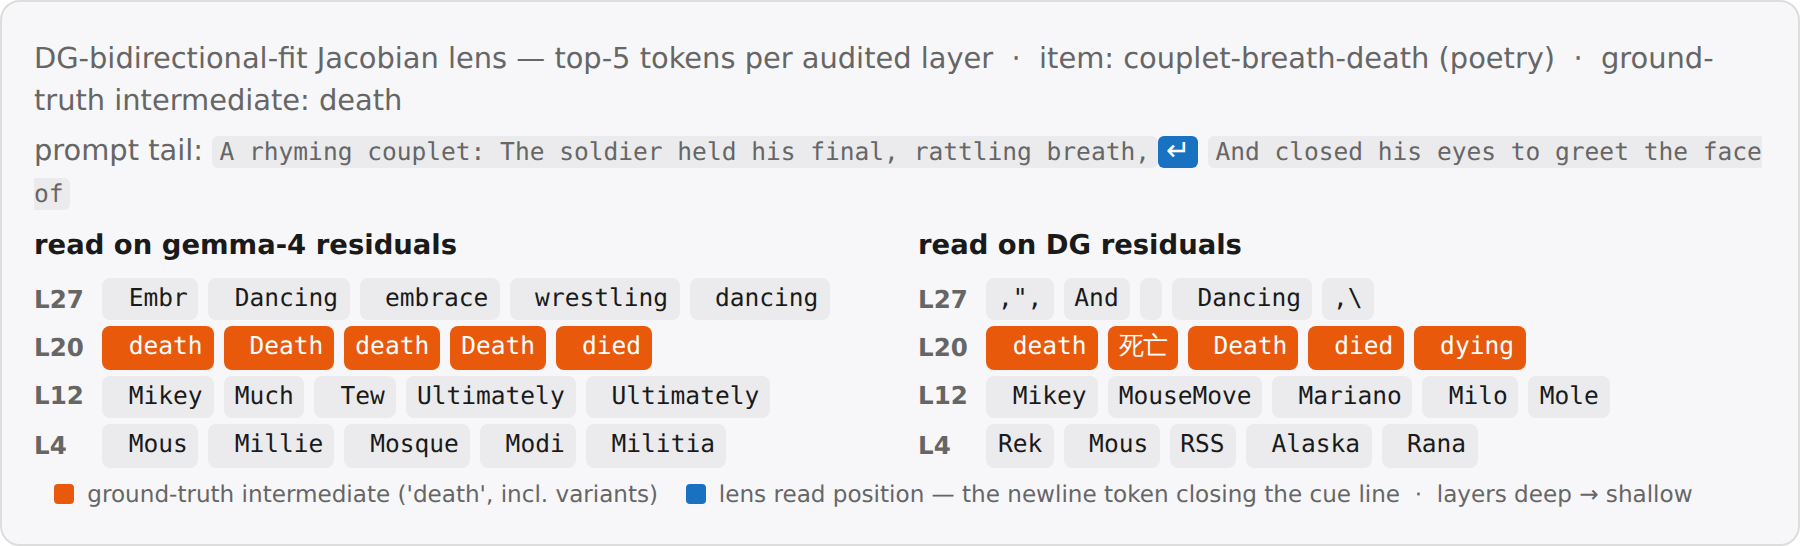
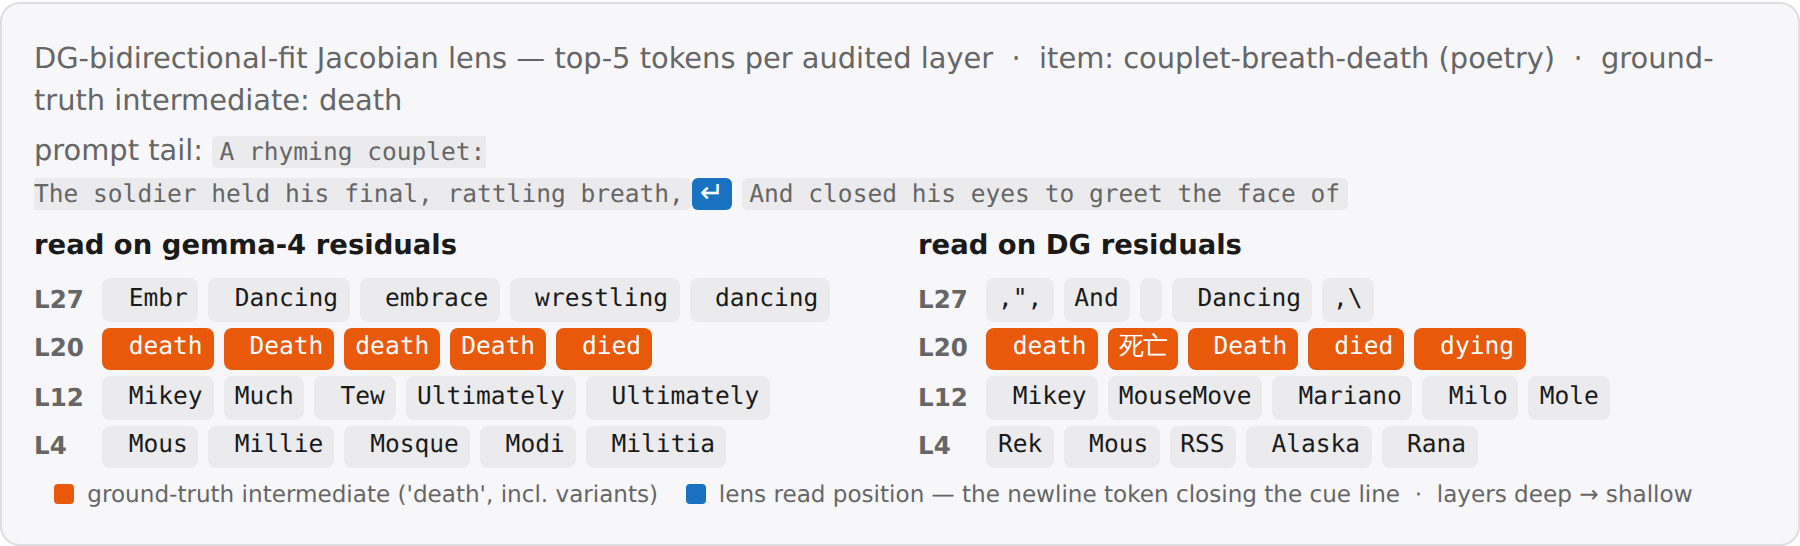
Honesty steering example, angle-bracket mean notation, bold sup-labels, jlens card linebreaks, x'-k axis on transfer map
Claude-Session: https://claude.ai/code/session_01U8CiyQ7ySpBDkYEq4FzNBU

diff --git a/post.html b/post.html
@@ -101,7 +101,7 @@ $$</p>
 <p>This behavior is plausible considering the computation in question: a shift is easily implemented by a linear rotation in representation space. Therefore, superpositions of letters will be transported to superpositions of responses. Overall, this leaves an interpretable picture.</p>
 <h2>Conclusion</h2>
 <p>In this post, we have studied whether DiffusionGemma has latent reasoning in terms of its vector-valued state $\mathbf{S}^t$. We found that top-k truncation of $\mathbf{S}^t$ largely preserves accuracy suggests that it is not _significantly_ being used in typical reasoning-focussed task. However, for some tasks, we found that the model can make _some_ use of $\mathbf{S}^t$, in terms of carrying out (parallel) computation on it.</p>
-<p>Overall, this supports <a href="https://arxiv.org/abs/2606.20560">Engels et al.</a>'s conclusion of a highly monitorable DiffusionGemma. Specifically, we did not find any strong evidence of latent _reasoning_, as in using $\mathbf{S}^t$ in a way that carries out meaningful computation and is opaque. Going forward, these largely negative results are an update that "true" latent reasoning is somewhat hard to learn. However, there already exist models like CODI that pass a vector-valued state that is not clearly a superposition of tokens, though they so far don't show superior performance. We believe that finding methods to better interpret such models is an important area of reasearch.</p>
+<p>Overall, this supports <a href="https://arxiv.org/abs/2606.20560">Engels et al.</a>'s conclusion of a highly monitorable DiffusionGemma. In particular, we did not find any strong evidence of latent _reasoning_, as in using $\mathbf{S}^t$ in a way that carries out meaningful computation and is opaque. Going forward, these largely negative results are an update that "true" latent reasoning is somewhat hard to learn. However, there already exist models like CODI that pass a vector-valued state that is not clearly a superposition of tokens, though they so far don't show superior performance. We believe that finding methods to better interpret such models is an important area of reasearch.</p>
 <h2>Appendix</h2>
 <p>The findings by <a href="https://arxiv.org/abs/2606.20560">Engels et al.</a> and in this post have focussed on DiffusionGemma's behavior. We here study whether the model's representation supports the behavioral finding of high monitorability.</p>
 <h3>Representation similarity (cosine &amp; CKA)</h3>
@@ -114,15 +114,15 @@ $$</p>
 <figure><img src="figs/figA2_probe_retention.png" alt="Probe retention"></figure>
 <p>_<strong>Probes largely transfer from Gemma to DiffusionGemma.</strong> Top: mean held-out AUC over the 56 concepts, probe source (trained on) × target (applied to); DG is split by attention mode (last-position read everywhere), grey = causal ↔ bidirectional cross-cells not measured. Bottom: a held-out positive and negative test text for one concept (world news): the same gemma-trained probe scores gemma-4 and DG activations near-identically._</p>
 <p>#### DiffusionGemma's representation is more linearly separable</p>
-<p>Interestingly, training and applying probes on DiffusionGemma in _bidirectional_ attention mode yields a somewhat higher AUC. This is suggestive of DG's bidirectional attention yielding a better structured representation, but is confounded by potentially longer training. </p>
+<p>Interestingly, training and applying probes on DiffusionGemma in _bidirectional_ attention mode yields a somewhat higher AUC. This is suggestive of DG's bidirectional attention yielding a better structured representation, but is confounded by potentially longer training.</p>
 <h3>Steering retention</h3>
-<p>To see whether these similarities in representation are causally load-bearing, we consider the steering experiments from the RepE paper (<a href="https://arxiv.org/abs/2310.01405">Zou et al., 2023</a>). For each of 11 RepE concept tasks we fit a direction $\hat v = \mathrm{normalize}\big(\mu(h\,\vert\,\mathrm{pos}) - \mu(h\,\vert\,\mathrm{neg})\big)$, where $\mu(h\,\vert\,\mathrm{pos})$ denotes the mean last-token residual activation $h$ over the task's positive contrastive stimuli (likewise for $\mathrm{neg}$), read separately on each stream (gemma-4, DG causal, DG bidirectional). The direction is then injected additively into the residual stream of the steered model at a fixed strength ($h' \leftarrow h' + \alpha\,\lVert h'\rVert\,\hat v$ with $\alpha=0.35$, layers 9–19) while it completes a neutral carrier prompt, once with $+\hat v$ and once with $-\hat v$. A blinded judge sees the two generations in random order and must identify the $+$steer one.</p>
+<p>To see whether these similarities in representation are causally load-bearing, we consider the steering experiments from the RepE paper (<a href="https://arxiv.org/abs/2310.01405">Zou et al., 2023</a>). For each of 11 RepE concept tasks we fit a direction $\hat v = \mathrm{normalize}\big(\langle h\rangle_{\mathrm{pos}} - \langle h\rangle_{\mathrm{neg}}\big)$, where $\langle h\rangle_{\mathrm{pos}}$ denotes the mean last-token residual activation $h$ over the task's positive contrastive stimuli (likewise for $\mathrm{neg}$), read separately on each stream (gemma-4, DG causal, DG bidirectional). The direction is then injected additively into the residual stream of the steered model at a fixed strength ($h' \leftarrow h' + \alpha\,\lVert h'\rVert\,\hat v$ with $\alpha=0.35$, layers 9–19) while it completes a neutral carrier prompt, once with $+\hat v$ and once with $-\hat v$. A blinded judge sees the two generations in random order and must identify the $+$steer one.</p>
 <figure><img src="figs/figA3_steer_retention.png" alt="Steering retention"></figure>
-<p>_<strong>Steering largely transfers from Gemma to DiffusionGemma.</strong> Top: blind-pair judge accuracy, direction source × steered model — every cell steers well above chance (0.70–0.85); bidirectional-fit directions are the weakest sources. Bottom: the same gemma-fit happiness direction applied to gemma-4 and DiffusionGemma on one carrier prompt; judge digests in italics._</p>
+<p>_<strong>Steering largely transfers from Gemma to DiffusionGemma.</strong> Top: blind-papir judge accuracy, direction source × steered model — every cell steers well above chance (0.70–0.85); bidirectional-fit directions are the weakest sources. Bottom: the same gemma-fit honesty direction applied to gemma-4 and DiffusionGemma on one carrier prompt; judge digests in italics._</p>
 <h3>J-Lens retention</h3>
 <figure><img src="figs/figA4_jlens_retention.png" alt="J-Lens retention"></figure>
 <p>_<strong>J-lens largely transfers from Gemma to DiffusionGemma.</strong> Top: Transfer matrix, with scores being the fraction of layers * positions slots where the presumed intermediate is in the top-20 (the eval tasks from ...). Bottom: An example poetry eval task, where the models surface the rhyme already one line in advance._</p>
-<h3>A5: Autonomous computational usage of $\mathbf{S}^t$</h3>
+<h3>Autonomous computational usage of $\mathbf{S}^t$</h3>
 <p>In the _letter arithmetic_ task introduced in the main text, DiffusionGemma did respond to modifications of the distributional state in the way we expected. While suggestive, it is unclear if the model also would make use of $\mathbf{S}^t$ _autonomously_, i.e. without interventions.</p>
 <p>To investigate this, we searched for a non-trivial (i.e., not just a binary choice) task where DG will use a hypothesis subleading in its distribution. An instance we found is a _word-level palindrome_ task. When asked ``<code>Please write a word-level palindrome</code>`<code>, DG maintains two competing completions of the same canvas: a literal _seasonal_ phrase (</code>`<code>fall leaves as soon as leaves fall</code>`<code>) and the famous _idiom_ (</code>`<code>all for one and one for all</code>``).</p>
 <p>The canvas will read the _seasonal_ answer for the first few diffusion steps, after which it flips and stays at _idiom_. Interestingly, this is accompanied by _dynamics_ in $\mathbf{S}^t$: _idiom_ will start at ~0, and progressively gain weight, replacing _seasonal_.</p>

diff --git a/scripts/build_html.py b/scripts/build_html.py
@@ -143,7 +143,7 @@ def ill_steer_pair():
                 f'<code class="gen block">{E(trunc(txt))}</code></div>')
     def side(c):
         return (f'<div><h4>steered model: {E(c["model"])}</h4>'
-                + gen(c["pos"], "+steer (toward happiness)", "#2f9e44")
+                + gen(c["pos"], f"+steer (toward {d['concept']})", "#2f9e44")
                 + gen(c["neg"], "−steer (away)", "#c2255c")
                 + f'<p class="judge">judge: {E(c["judge"])}</p></div>')
     return f"""<div class="card">
@@ -171,9 +171,10 @@ def ill_jlens_pair():
     tail = d["tail"].rstrip()
     # poetry reads at the token containing the FINAL newline (cue-line ending), per paper_readout
     pre, post = tail.rsplit("\n", 1)
-    tail_html = (f'<code class="gen">{E(pre)}</code>'
+    br = lambda s: E(s).replace("\n", "<br>")
+    tail_html = (f'<code class="gen">{br(pre)}</code>'
                  f'<span class="readtok" style="background:{READ}">↵</span> '
-                 f'<code class="gen">{E(post)}</code>')
+                 f'<code class="gen">{br(post)}</code>')
     return f"""<div class="card">
 <p class="small">{E(d['config_label'])} — top-5 tokens per audited layer &nbsp;·&nbsp;
 item: {E(d['name'])} ({E(d['set'])}) &nbsp;·&nbsp; ground-truth intermediate: {E(', '.join(d['intermediates']))}</p>

diff --git a/scripts/figA2_probe.py b/scripts/figA2_probe.py
@@ -50,8 +50,8 @@ for (i, j), v in np.ndenumerate(M):
              color="0.4" if M.mask[i, j] else ("white" if v < 0.85 else "black"))
 axL.set_xticks(range(3), LABS)
 axL.set_yticks(range(3), [l.replace("\n", " · ") for l in LABS])
-fig.supxlabel("target")
-fig.supylabel("source")
+fig.supxlabel("target", fontweight="bold")
+fig.supylabel("source", fontweight="bold")
 fig.colorbar(im_, ax=axL, shrink=0.7)
 fig.savefig(OUT / "parts" / "figA2_matrix.png", dpi=200)
 print(OUT / "parts" / "figA2_matrix.png")

diff --git a/scripts/fig2a_transfer_map.py b/scripts/fig2a_transfer_map.py
@@ -48,7 +48,7 @@ im = ax.imshow(em, cmap="coolwarm", vmin=-vm, vmax=vm, origin="lower")
 ax.set_xticks(range(NC), xt)
 ax.set_yticks(range(NC + 1), yt)
 ax.set_xlabel(r"$x_t$")
-ax.set_ylabel(r"$x^{\prime}_{t+1}$")
+ax.set_ylabel(r"$x^{\prime}_{t+1} - k$")  # rows are k-aligned (pooled over k), so ticks name the pre-image
 ax.set_title(r"response $\mathbf{R}[x^{\prime}_{t+1} \vert\, \mathrm{pert}(x_t)]$")
 fig.colorbar(im, ax=ax, shrink=0.8)
 fig.savefig(OUT / "fig2a_transfer_map.png", dpi=200)

diff --git a/post.md b/post.md
@@ -78,7 +78,7 @@ This behavior is plausible considering the computation in question: a shift is e
 
 In this post, we have studied whether DiffusionGemma has latent reasoning in terms of its vector-valued state $\mathbf{S}^t$. We found that top-k truncation of $\mathbf{S}^t$ largely preserves accuracy suggests that it is not _significantly_ being used in typical reasoning-focussed task. However, for some tasks, we found that the model can make _some_ use of $\mathbf{S}^t$, in terms of carrying out (parallel) computation on it.
 
-Overall, this supports [Engels et al.](https://arxiv.org/abs/2606.20560)'s conclusion of a highly monitorable DiffusionGemma. Specifically, we did not find any strong evidence of latent _reasoning_, as in using $\mathbf{S}^t$ in a way that carries out meaningful computation and is opaque. Going forward, these largely negative results are an update that "true" latent reasoning is somewhat hard to learn. However, there already exist models like CODI that pass a vector-valued state that is not clearly a superposition of tokens, though they so far don't show superior performance. We believe that finding methods to better interpret such models is an important area of reasearch.
+Overall, this supports [Engels et al.](https://arxiv.org/abs/2606.20560)'s conclusion of a highly monitorable DiffusionGemma. In particular, we did not find any strong evidence of latent _reasoning_, as in using $\mathbf{S}^t$ in a way that carries out meaningful computation and is opaque. Going forward, these largely negative results are an update that "true" latent reasoning is somewhat hard to learn. However, there already exist models like CODI that pass a vector-valued state that is not clearly a superposition of tokens, though they so far don't show superior performance. We believe that finding methods to better interpret such models is an important area of reasearch.
 
 ## Appendix
 
@@ -104,15 +104,15 @@ _**Probes largely transfer from Gemma to DiffusionGemma.** Top: mean held-out AU
 
 #### DiffusionGemma's representation is more linearly separable
 
-Interestingly, training and applying probes on DiffusionGemma in _bidirectional_ attention mode yields a somewhat higher AUC. This is suggestive of DG's bidirectional attention yielding a better structured representation, but is confounded by potentially longer training. 
+Interestingly, training and applying probes on DiffusionGemma in _bidirectional_ attention mode yields a somewhat higher AUC. This is suggestive of DG's bidirectional attention yielding a better structured representation, but is confounded by potentially longer training.
 
 ### Steering retention
 
-To see whether these similarities in representation are causally load-bearing, we consider the steering experiments from the RepE paper ([Zou et al., 2023](https://arxiv.org/abs/2310.01405)). For each of 11 RepE concept tasks we fit a direction $\hat v = \mathrm{normalize}\big(\mu(h\,\vert\,\mathrm{pos}) - \mu(h\,\vert\,\mathrm{neg})\big)$, where $\mu(h\,\vert\,\mathrm{pos})$ denotes the mean last-token residual activation $h$ over the task's positive contrastive stimuli (likewise for $\mathrm{neg}$), read separately on each stream (gemma-4, DG causal, DG bidirectional). The direction is then injected additively into the residual stream of the steered model at a fixed strength ($h' \leftarrow h' + \alpha\,\lVert h'\rVert\,\hat v$ with $\alpha=0.35$, layers 9–19) while it completes a neutral carrier prompt, once with $+\hat v$ and once with $-\hat v$. A blinded judge sees the two generations in random order and must identify the $+$steer one.
+To see whether these similarities in representation are causally load-bearing, we consider the steering experiments from the RepE paper ([Zou et al., 2023](https://arxiv.org/abs/2310.01405)). For each of 11 RepE concept tasks we fit a direction $\hat v = \mathrm{normalize}\big(\langle h\rangle_{\mathrm{pos}} - \langle h\rangle_{\mathrm{neg}}\big)$, where $\langle h\rangle_{\mathrm{pos}}$ denotes the mean last-token residual activation $h$ over the task's positive contrastive stimuli (likewise for $\mathrm{neg}$), read separately on each stream (gemma-4, DG causal, DG bidirectional). The direction is then injected additively into the residual stream of the steered model at a fixed strength ($h' \leftarrow h' + \alpha\,\lVert h'\rVert\,\hat v$ with $\alpha=0.35$, layers 9–19) while it completes a neutral carrier prompt, once with $+\hat v$ and once with $-\hat v$. A blinded judge sees the two generations in random order and must identify the $+$steer one.
 
 ![Steering retention](figs/figA3_steer_retention.png)
 
-_**Steering largely transfers from Gemma to DiffusionGemma.** Top: blind-pair judge accuracy, direction source × steered model — every cell steers well above chance (0.70–0.85); bidirectional-fit directions are the weakest sources. Bottom: the same gemma-fit happiness direction applied to gemma-4 and DiffusionGemma on one carrier prompt; judge digests in italics._
+_**Steering largely transfers from Gemma to DiffusionGemma.** Top: blind-papir judge accuracy, direction source × steered model — every cell steers well above chance (0.70–0.85); bidirectional-fit directions are the weakest sources. Bottom: the same gemma-fit honesty direction applied to gemma-4 and DiffusionGemma on one carrier prompt; judge digests in italics._
 
 ### J-Lens retention
 
@@ -120,7 +120,7 @@ _**Steering largely transfers from Gemma to DiffusionGemma.** Top: blind-pair ju
 
 _**J-lens largely transfers from Gemma to DiffusionGemma.** Top: Transfer matrix, with scores being the fraction of layers * positions slots where the presumed intermediate is in the top-20 (the eval tasks from ...). Bottom: An example poetry eval task, where the models surface the rhyme already one line in advance._
 
-### A5: Autonomous computational usage of $\mathbf{S}^t$
+### Autonomous computational usage of $\mathbf{S}^t$
 
 In the _letter arithmetic_ task introduced in the main text, DiffusionGemma did respond to modifications of the distributional state in the way we expected. While suggestive, it is unclear if the model also would make use of $\mathbf{S}^t$ _autonomously_, i.e. without interventions.
 

diff --git a/AGENTS.md b/AGENTS.md
@@ -54,7 +54,7 @@ committed as artifacts, not regenerable offline. Provenance of `src_data/`:
   user request 2026-08-01).
 - `scripts/figA{1..4}_*.py` — appendix matrices (A1 RSA curves; A2/A3/A4 matrix-only PNGs in
   figs/parts/) + card data: `data/probe_pair.json`, `data/steer_pair.json` (cells gg+gd — both
-  target models side by side), `data/jlens_layers.json` (carnival-ocean top-5/layer for both
+  target models side by side), `data/jlens_layers.json` (couplet-breath-death top-5/layer for both
   read streams, from `jlens/eval_2x2.json` examples). Source data: `src_data/saeprobes/`.
   The A2 matrix is the 3×3 mode-split (probe_matrix.json modes: `headline` = DG causal,
   `declast` = DG bidirectional last-token; `decmean` only cited in prose). causal↔bidirectional
